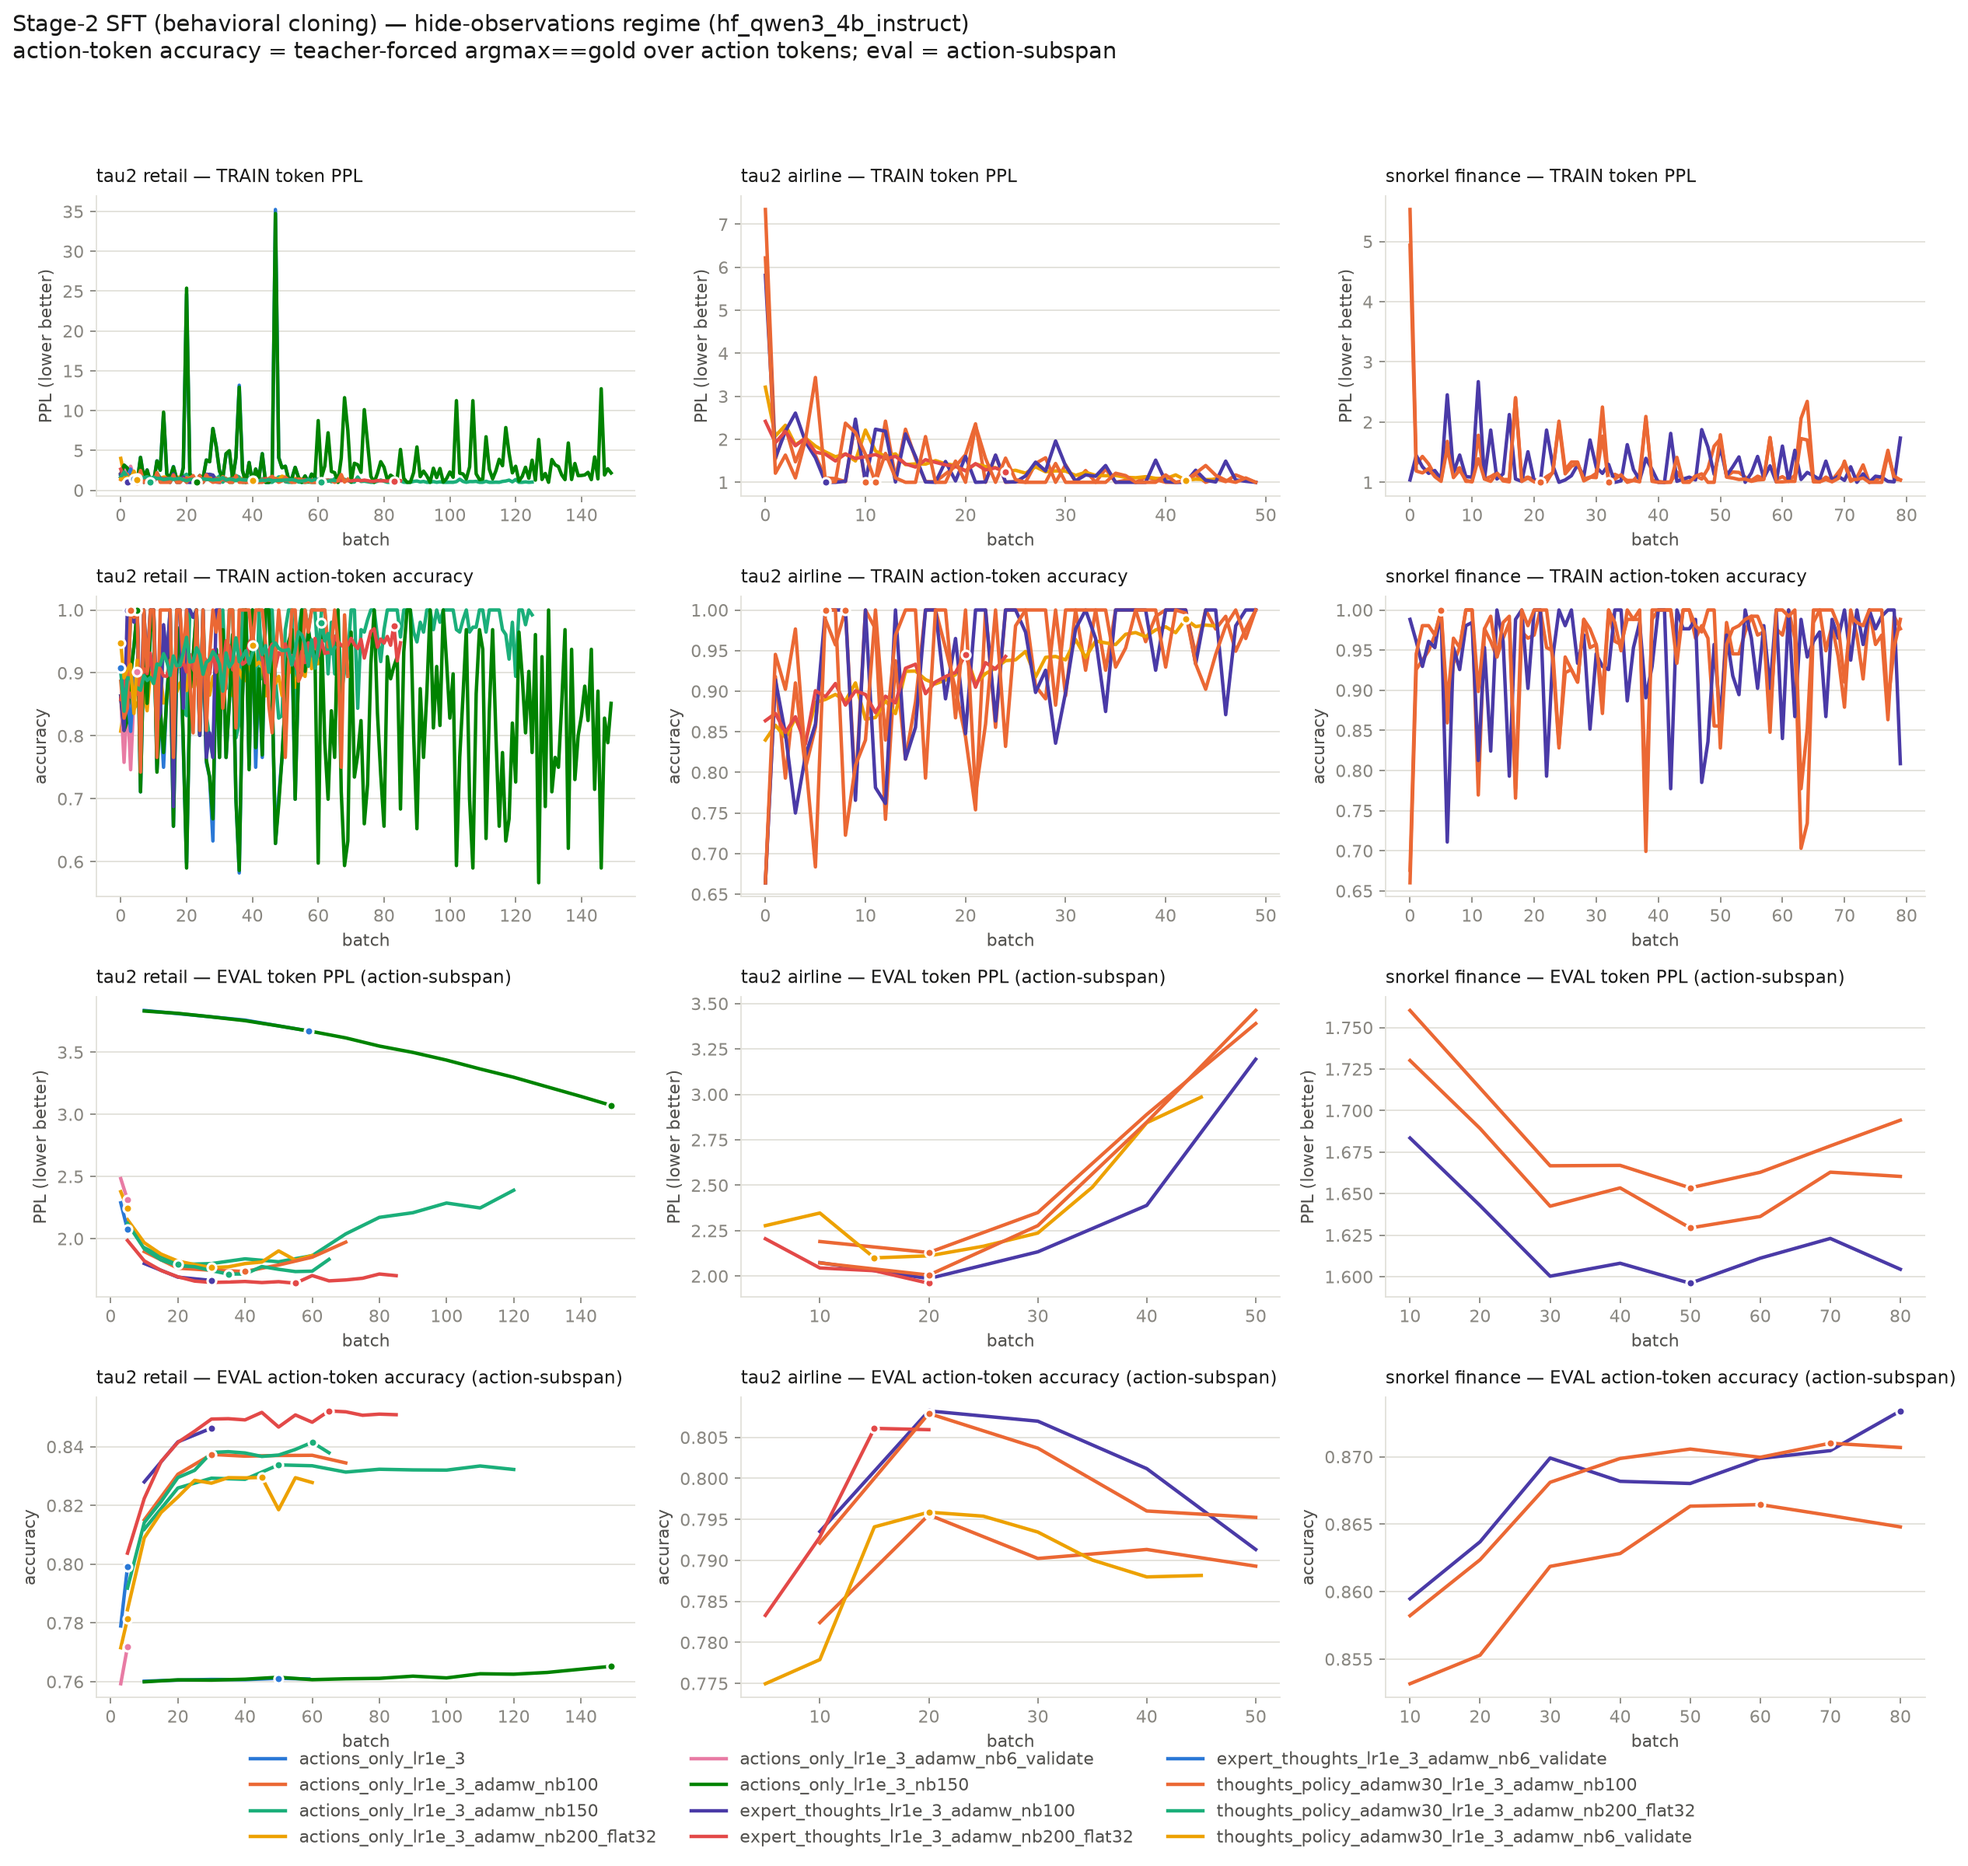
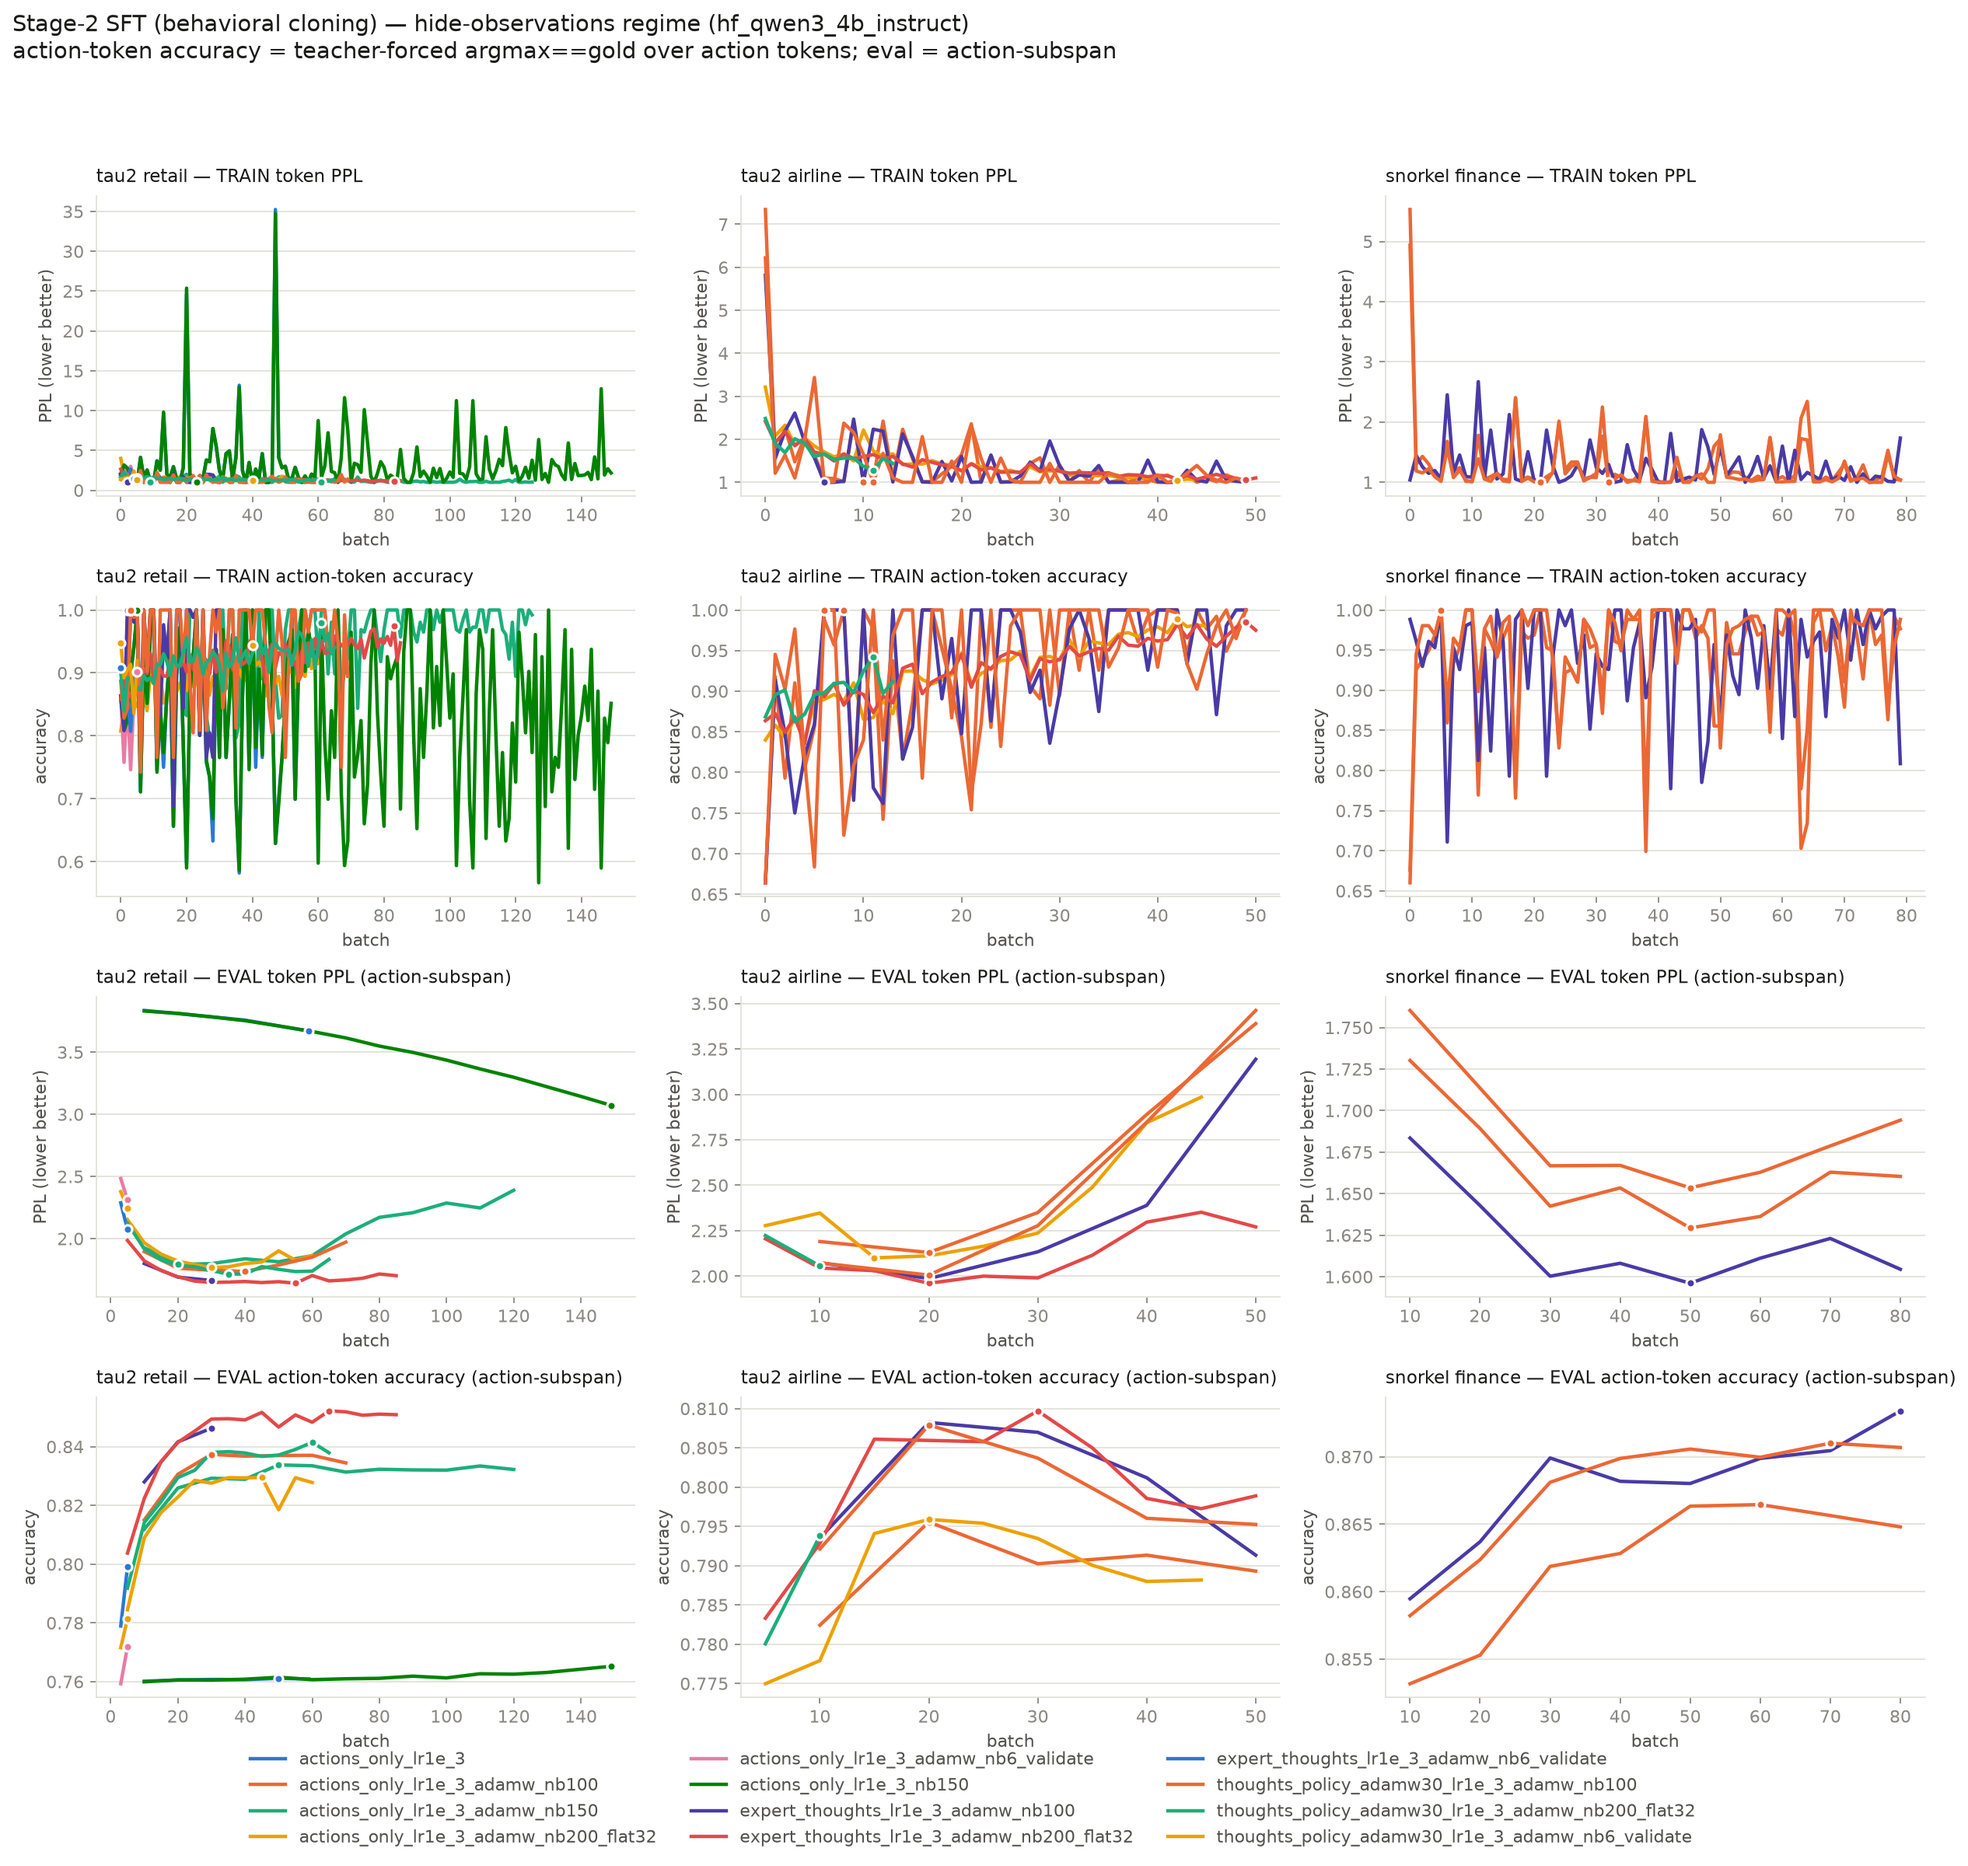
auto: SFT LR sweep results snapshot

Changed region(s): [[0.3433, 0.75, 0.6555, 0.875], [0.3746, 0.3125, 0.6555, 0.4375], [0.3746, 0.2188, 0.6555, 0.2812]]

diff --git a/notes/cc-3.0-airline_sft_results.md b/notes/cc-3.0-airline_sft_results.md
@@ -25,11 +25,12 @@ for wordiness rather than for mispredicting the action, which inverts the rankin
 | expert_thoughts_all_lr3e_3_nb150 | hide | 2.4185 | 0.7530 | 149 | 4.0115 | 0.6414 | 149 | 1.0439 |
 | expert_thoughts_all_lr3e_3_nb150_fixeval | hide | 2.3673 | 0.7715 | 149 | 3.6306 | 0.6702 | 149 | 1.0437 |
 | expert_thoughts_lr1e_3_adamw_nb100 | hide | 1.9863 | 0.8082 | 20 | 3.0771 | 0.7030 | 20 | 0.0003 |
-| expert_thoughts_lr1e_3_adamw_nb200_flat32 | hide | 1.9604 | 0.8059 | 20 | — | — | — | 0.5151 |
+| expert_thoughts_lr1e_3_adamw_nb200_flat32 | hide | 1.9604 | 0.8059 | 20 | — | — | — | 0.2031 |
 | expert_thoughts_lr3e_3_nb150 | hide | 2.3383 | 0.7732 | 149 | 3.6514 | 0.6699 | 149 | 1.2357 |
 | thoughts_base_last | hide | 3.5051 | 0.7504 | 59 | 4.0264 | 0.7143 | 40 | 0.4372 |
 | thoughts_base_lr3e_3_nb150 | hide | 2.3981 | 0.7644 | 149 | 2.5832 | 0.7398 | 149 | 0.8685 |
 | thoughts_policy_adamw30_lr1e_3_adamw_nb100 | hide | 2.0055 | 0.8079 | 20 | 2.2383 | 0.7668 | 10 | 0.0872 |
+| thoughts_policy_adamw30_lr1e_3_adamw_nb200_flat32 | hide | 2.0560 | 0.7938 | 10 | — | — | — | 0.6123 |
 | thoughts_policy_last | hide | 3.4880 | 0.7539 | 20 | 3.9857 | 0.7162 | 20 | 0.4687 |
 | thoughts_policy_lr3e_3_nb150 | hide | 2.3868 | 0.7691 | 149 | 2.6211 | 0.7348 | 149 | 0.8943 |
 | thoughts_base_last | full | 3.3200 | 0.7644 | 30 | 3.8484 | 0.7266 | 30 | 0.8020 |
@@ -62,6 +63,7 @@ that saved step:
 | thoughts_base_last | hide | 3.5052 | 0.7501 |
 | thoughts_base_lr3e_3_nb150 | hide | 2.3981 | 0.7644 |
 | thoughts_policy_adamw30_lr1e_3_adamw_nb100 | hide | 2.0724 | 0.7921 |
+| thoughts_policy_adamw30_lr1e_3_adamw_nb200_flat32 | hide | — | — |
 | thoughts_policy_last | hide | 3.4880 | 0.7539 |
 | thoughts_policy_lr3e_3_nb150 | hide | 2.3868 | 0.7691 |
 | thoughts_base_last | full | 3.3200 | 0.7644 |

diff --git a/notes/cc-5.0-sft-lr-investigation.md b/notes/cc-5.0-sft-lr-investigation.md
@@ -378,15 +378,16 @@ retail/thoughts_policy_adamw30_lr1e_3_adamw_nb6_validate hide    5     2.3775 ->
 airline/actions_only_lr1e_3_adamw_nb100              hide   50     2.1901 ->   3.3899 -54.78%  0.7893        1.0000  <running>
 airline/actions_only_lr1e_3_adamw_nb200_flat32       hide   45     2.2776 ->   2.9850 -31.06%  0.7882        1.0679  <running>
 airline/expert_thoughts_lr1e_3_adamw_nb100           hide   50     2.0737 ->   3.1936 -54.00%  0.7913        1.0000  <running>
-airline/expert_thoughts_lr1e_3_adamw_nb200_flat32    hide   24     2.2052 ->   1.9604  11.10%  0.8059        1.2334  <running>
+airline/expert_thoughts_lr1e_3_adamw_nb200_flat32    hide   50     2.2052 ->   2.2707  -2.97%  0.7989        1.1013  <running>
 airline/thoughts_policy_adamw30_lr1e_3_adamw_nb100   hide   50     2.0724 ->   3.4621 -67.06%  0.7952        1.0000  <running>
+airline/thoughts_policy_adamw30_lr1e_3_adamw_nb200_flat32 hide   13     2.2230 ->   2.0560   7.51%  0.7938        1.4392  <running>
 snorkel_finance_split/actions_only_lr1e_3_adamw_nb100 hide   80     1.7603 ->   1.6942   3.75%  0.8648        1.0391  <running>
 snorkel_finance_split/expert_thoughts_lr1e_3_adamw_nb100 hide   80     1.6835 ->   1.6045   4.69%  0.8734        1.7344  <running>
 snorkel_finance_split/thoughts_policy_adamw30_lr1e_3_adamw_nb100 hide   80     1.7302 ->   1.6604   4.03%  0.8707        1.0391  <running>
 
-5/20 arms complete   (Δ% = held-out action-subspan PPL improvement, higher is better)
+5/21 arms complete   (Δ% = held-out action-subspan PPL improvement, higher is better)
 ```
-_last refreshed: 2026-08-30 20:40_
+_last refreshed: 2026-08-30 21:00_
 <!--/RESULTS-->
 
 ## Infrastructure
